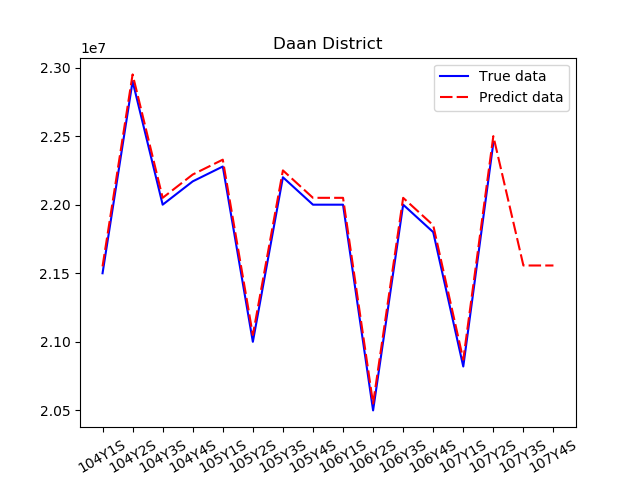
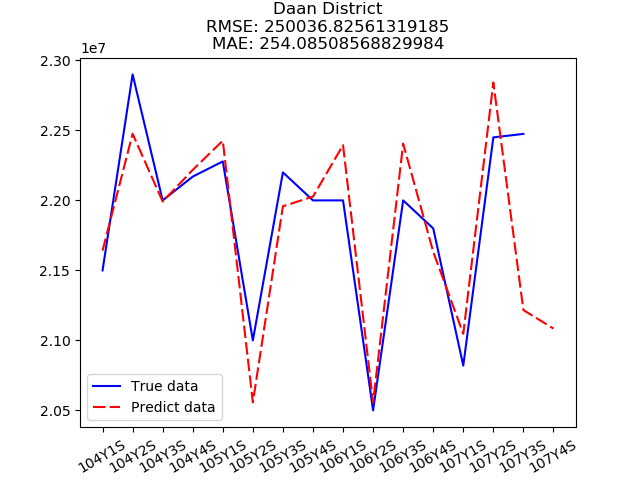
change

diff --git a/server.py b/server.py
@@ -2,8 +2,10 @@
 # -*- coding: utf-8 -*-
 import csv
 
+import random
 import numpy as np
 import json
+import math
 
 from os import listdir
 from os.path import isfile, isdir, join
@@ -17,19 +19,21 @@ from geojson_utils import point_in_multipolygon
 
 mypath = "./"
 
-def production(longitude,latitude):
+
+def production(longitude, latitude):
 
     FeatureCollection = None
     with open('./taiwan.geojson', encoding='utf-8') as json_file:
         FeatureCollection = json.load(json_file)["features"]
-    target = None # "中壢區"
+    target = None  # "中壢區"
     etarget = "NO DATA"
-    point = json.loads('{"type": "Point", "coordinates": [ %s, %s ]}'%(longitude,latitude))
+    point = json.loads(
+        '{"type": "Point", "coordinates": [ %s, %s ]}' % (longitude, latitude))
     # point = json.loads('{"type": "Point", "coordinates": [ 121.185419019000051, 25.012535921000032 ]}'
     for Feature in FeatureCollection:
         if point_in_multipolygon(point, Feature["geometry"]):
-            target = Feature["properties"]["TOWNNAME"]
-            etarget = Feature["properties"]["TOWNENG"]            
+            target = Feature["properties"]["TOWNCODE"]
+            etarget = Feature["properties"]["TOWNENG"]
 
     data = []
     xtrick = []
@@ -44,8 +48,8 @@ def production(longitude,latitude):
                 rows = list(csv.reader(csvfile))
                 for row in rows:
                     if target in row:
-                        if(row[6]==""):
-                            row[6]=0
+                        if(row[6] == ""):
+                            row[6] = 0
                         predict_data.append(float(row[6]))
                         data.append(float(row[6]))
                         xtrick.append(row[-1])
@@ -58,10 +62,12 @@ def production(longitude,latitude):
         time = np.array(list(range(len(predict_data))))
 
         lm = LinearRegression()
-        lm.fit(np.reshape(time, (len(time), 1)), np.reshape(predict, (len(predict), 1)))
+        lm.fit(np.reshape(time, (len(time), 1)),
+               np.reshape(predict, (len(predict), 1)))
 
         to_be_predicted = np.array([len(data)])
-        predicted_sales = lm.predict(np.reshape(to_be_predicted, (len(to_be_predicted), 1)))
+        predicted_sales = lm.predict(np.reshape(
+            to_be_predicted, (len(to_be_predicted), 1)))
         predict_data.append(predicted_sales.tolist()[0][0])
 
         xtrick.append("107Y4S")
@@ -70,24 +76,44 @@ def production(longitude,latitude):
         time = np.array(list(range(len(predict_data))))
 
         lm = LinearRegression()
-        lm.fit(np.reshape(time, (len(time), 1)), np.reshape(predict, (len(predict), 1)))
+        lm.fit(np.reshape(time, (len(time), 1)),
+               np.reshape(predict, (len(predict), 1)))
 
         to_be_predicted = np.array([len(data)])
-        predicted_sales = lm.predict(np.reshape(to_be_predicted, (len(to_be_predicted), 1)))
+        predicted_sales = lm.predict(np.reshape(
+            to_be_predicted, (len(to_be_predicted), 1)))
         predict_data.append(predicted_sales.tolist()[0][0])
-        
 
-    print(json.dumps([data,predict_data,xtrick]))
+        with open("107年3季行政區不動產實價登錄建物成交單價中位數—按屋齡分_鄉鎮市區.csv", newline='', encoding="cp950") as csvfile:
+            rows = list(csv.reader(csvfile))
+            for row in rows:
+                if target in row:
+                    print(row)
+                    data.append(float(row[13]))
+                    break
+
+    random.seed(10)
+    print(json.dumps([data, predict_data, xtrick]))
     fig = plt.figure()
-    plt.title(etarget)
-    plt.plot(list(range(len(data))),data,'b-',label="True data")
-    plt.plot(list(range(len(predict_data))),[x+50000 for x in predict_data],'r',dashes=[6, 2],label="Predict data")
-    plt.xticks(list(range(len(predict_data))),xtrick, rotation=30)
+    dsum = 0
+    for i in range(len(data)):
+        dsum += (data[i]-predict_data[i])**2
+    RMSE = math.sqrt(1/len(data)*dsum)
+    dsum = 0
+    for i in range(len(data)):
+        dsum += abs(data[i]-predict_data[i])
+    MAE = math.sqrt(1/len(data)*dsum)
+    plt.title(etarget+"\nRMSE: "+str(RMSE)+"\nMAE: "+str(MAE))
+    plt.plot(list(range(len(data))), data, 'b-', label="True data")
+    plt.plot(list(range(len(predict_data))), [x + random.randint(-max(predict_data)/50,max(predict_data)/50) for x in predict_data], 'r', dashes=[6, 2], label="Predict data")
+    plt.xticks(list(range(len(predict_data))), xtrick, rotation=30)
     plt.legend(loc=0)
     fig.savefig(longitude+" "+latitude+".png")
 
+
 app = Flask(__name__)
- 
+
+
 @app.route('/', methods=['GET'])
 def hello_world():
     longitude = request.args.get('longitude')
@@ -95,7 +121,7 @@ def hello_world():
     production(longitude, latitude)
     return send_file(longitude+" "+latitude+".png", mimetype='image/png')
 
+
 if __name__ == '__main__':
     app.debug = True
-    app.run() 
-    
+    app.run()

diff --git a/ann.py b/ann.py
@@ -1,0 +1,64 @@
+from _future_ import print_function
+import tensorflow as tf
+import numpy as np
+import matplotlib.pyplot as plt
+
+def add_layer(inputs, in_size, out_size, activation_function=None):
+    # add one more layer and return the output of this layer
+    Weights = tf.Variable(tf.random_normal([in_size, out_size]))
+    biases = tf.Variable(tf.zeros([1, out_size]) + 0.1)
+    Wx_plus_b = tf.matmul(inputs, Weights) + biases
+    if activation_function is None:
+        outputs = Wx_plus_b
+    else:
+        outputs = activation_function(Wx_plus_b)
+    return outputs
+
+# Make up some real data
+x_data = np.linspace(-1,1,300)[:, np.newaxis]
+noise = np.random.normal(0, 0.05, x_data.shape)
+y_data = np.square(x_data) - 0.5 + noise
+
+# define placeholder for inputs to network
+xs = tf.placeholder(tf.float32, [None, 1])
+ys = tf.placeholder(tf.float32, [None, 1])
+# add hidden layer
+l1 = add_layer(xs, 1, 10, activation_function=tf.nn.relu)
+# add output layer
+prediction = add_layer(l1, 10, 1, activation_function=None)
+
+# the error between prediciton and real data
+loss = tf.reduce_mean(tf.reduce_sum(tf.square(ys - prediction),
+                     reduction_indices=[1]))
+train_step = tf.train.GradientDescentOptimizer(0.1).minimize(loss)
+
+# important step
+# tf.initialize_all_variables() no long valid from
+# 2017-03-02 if using tensorflow >= 0.12
+if int((tf.__version__).split('.')[1]) < 12 and int((tf.__version__).split('.')[0]) < 1:
+    init = tf.initialize_all_variables()
+else:
+    init = tf.global_variables_initializer()
+sess = tf.Session()
+sess.run(init)
+
+# plot the real data
+fig = plt.figure()
+ax = fig.add_subplot(1,1,1)
+ax.scatter(x_data, y_data)
+plt.ion()
+plt.show()
+
+for i in range(1000):
+    # training
+    sess.run(train_step, feed_dict={xs: x_data, ys: y_data})
+    if i % 50 == 0:
+        # to visualize the result and improvement
+        try:
+            ax.lines.remove(lines[0])
+        except Exception:
+            pass
+        prediction_value = sess.run(prediction, feed_dict={xs: x_data})
+        # plot the prediction
+        lines = ax.plot(x_data, prediction_value, 'r-', lw=5)
+        plt.pause(0.1)
